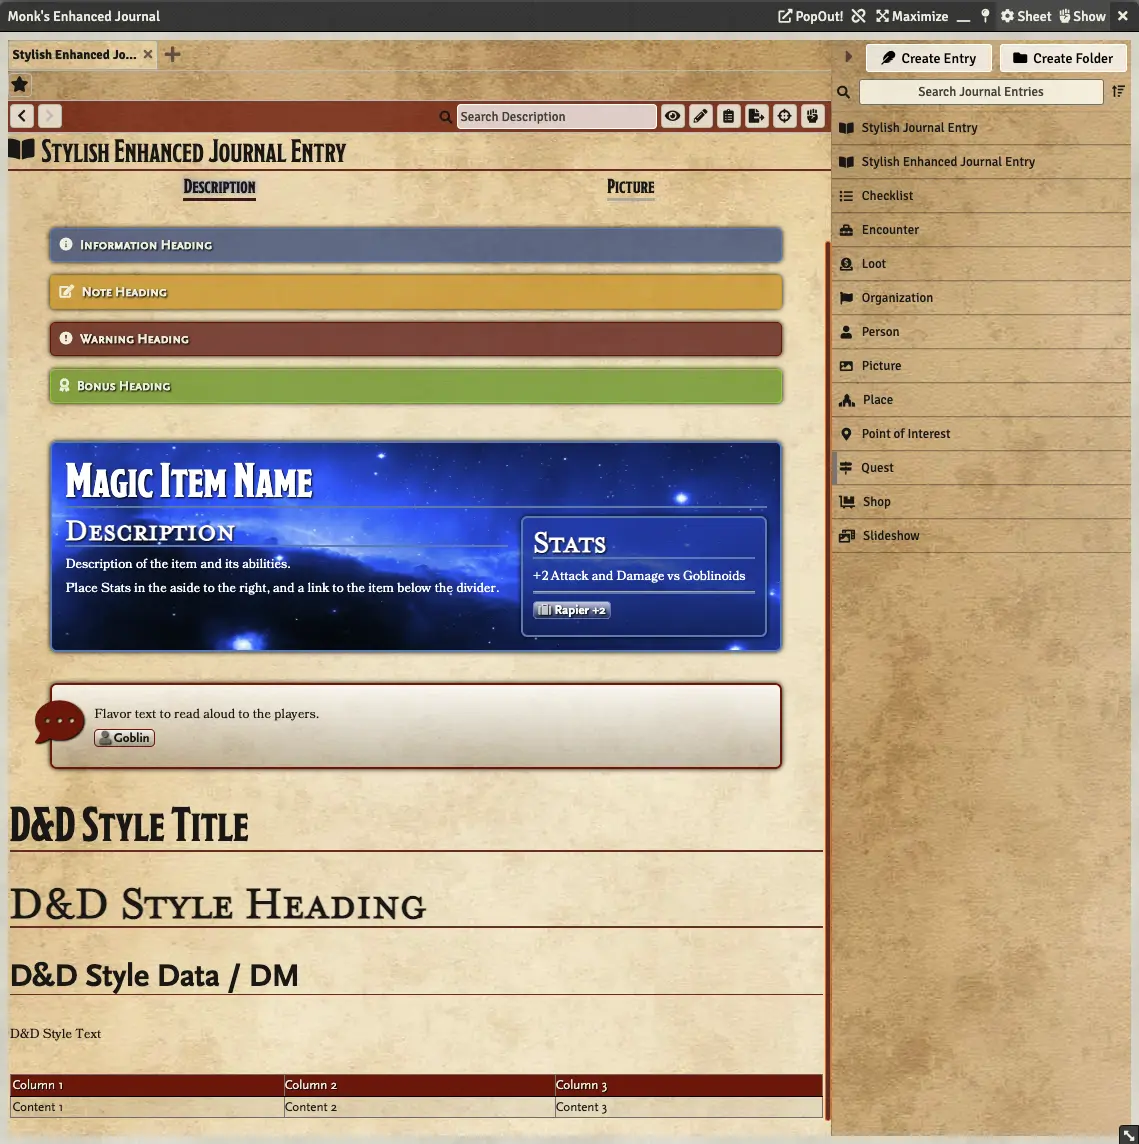
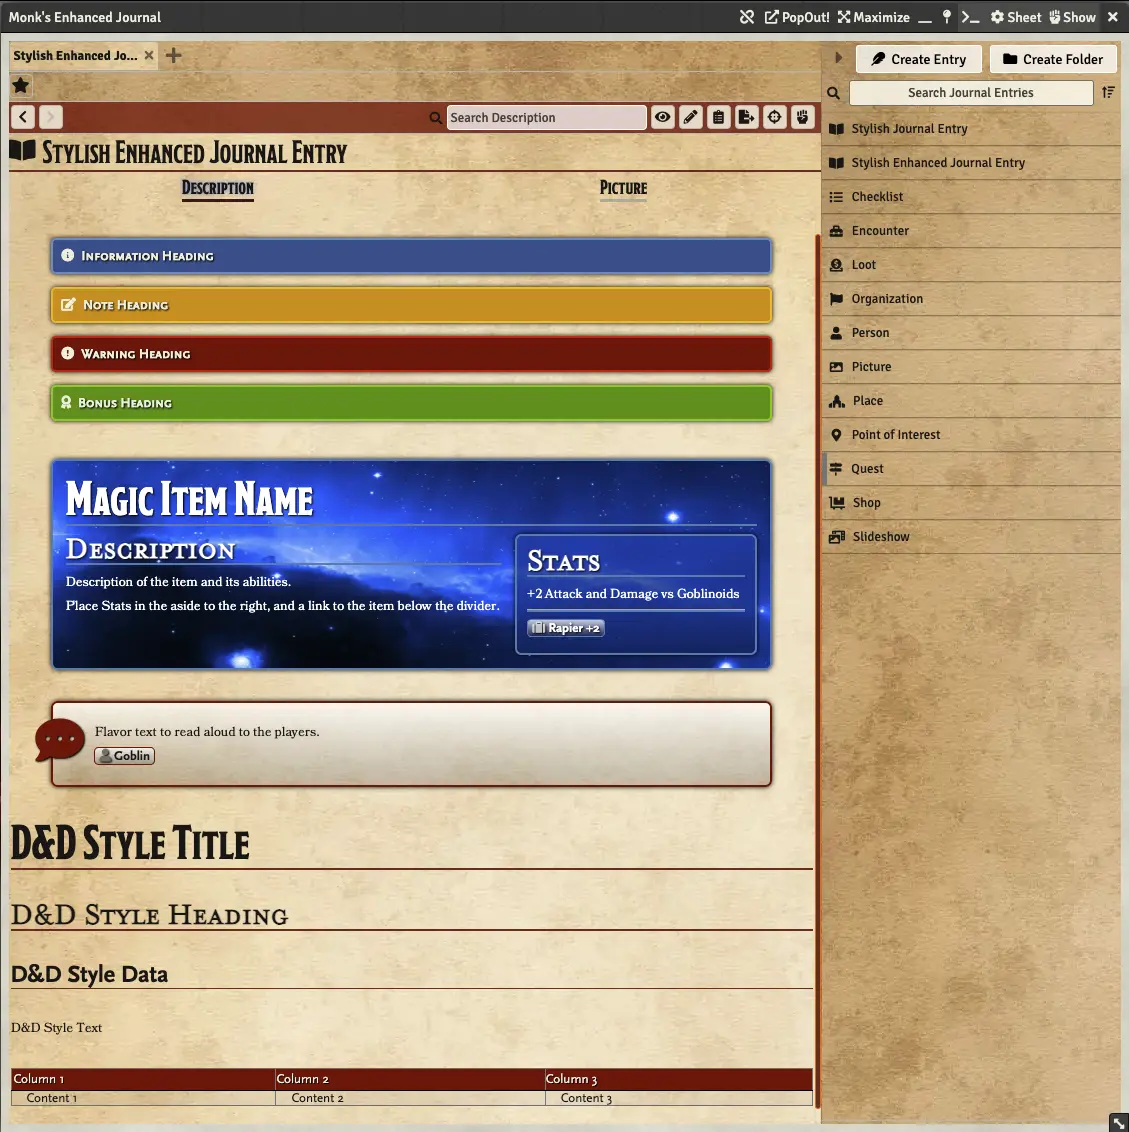
Parchment setting, vibrant panels,localization start, stylish text renames, remove sizes from headings, minro bug fixes

diff --git a/styles/apsj4mej.css b/styles/apsj4mej.css
@@ -1,7 +1,7 @@
 :root {
     --color-apsj-base-border: rgba(128, 0, 0, 1);
     --color-apsj-base-background: rgba(128, 0, 0, 0.75);
-    --color-apsj-magic-border: rgba(92, 135, 185, 1);
+    --color-apsj-magic-border: rgb(92, 135, 185);
     --color-apsj-light-background: rgba(255, 255, 255, 0.75);
     --color-apsj-dark-background: rgba(64, 64, 64, 0.25);
 }
@@ -13,28 +13,28 @@
 
 @font-face {
     font-family: 'BookInsanity';
-    src: url('../fonts/Bookinsanity/BookInsanity.otf') format('opentype');
+    src: url('../fonts/BookInsanity/BookInsanity.otf') format('opentype');
     font-weight: 400;
     font-style: normal;
 }
 
 @font-face {
     font-family: 'BookInsanity';
-    src: url('../fonts/Bookinsanity/BookInsanityBold.otf') format('opentype');
+    src: url('../fonts/BookInsanity/BookInsanityBold.otf') format('opentype');
     font-weight: 700;
     font-style: normal;
 }
 
 @font-face {
     font-family: 'BookInsanity';
-    src: url('../fonts/Bookinsanity/BookInsanityItalic.otf') format('opentype');
+    src: url('../fonts/BookInsanity/BookInsanityItalic.otf') format('opentype');
     font-weight: 400;
     font-style: italic;
 }
 
 @font-face {
     font-family: 'BookInsanity';
-    src: url('../fonts/Bookinsanity/BookInsanityBoldItalic.otf')
+    src: url('../fonts/BookInsanity/BookInsanityBoldItalic.otf')
         format('opentype');
     font-weight: 700;
     font-style: italic;
@@ -112,28 +112,25 @@
     background-image: url(../assets/parchment-medium.webp) !important;
 } */
 
-.editor-content h1 {
-    font-size: xxx-large;
+.editor-content table tbody tr td {
+    padding: 0 15px;
 }
 
-.editor-content h2 {
-    font-size: xx-large;
+.editor-content table tbody tr td:first-child {
+    white-space: nowrap;
 }
 
-.editor-content h3 {
-    font-size: x-large;
+.editor-content blockquote {
+    margin-bottom: 1.5em;
 }
 
-.editor-content h4 {
-    font-size: large;
+.editor-content {
+    padding-right: 5px;
+    overflow-x: hidden;
 }
 
-.editor-content h5 {
-    font-size: medium;
-}
-
-.editor-content h6 {
-    font-size: small;
+li > .entity-link {
+    line-height: 1.75em;
 }
 
 table thead {
@@ -169,33 +166,6 @@ a.inline-roll i {
 /*
  Monk's Enhanced Journal Style Overrides
 */
-
-.monks-enhanced-journal .mainbar {
-    background-image: url(../assets/parchment-medium.webp);
-}
-
-.monks-enhanced-journal .directory-sidebar {
-    background-image: url(../assets/parchment-medium.webp) !important;
-}
-
-.monks-enhanced-journal .tab-bar .journal-tab.active {
-    background-image: url(../assets/parchment.webp);
-}
-
-.monks-journal-sheet .encounter-body {
-    background-image: url(../assets/parchment-bloody.webp);
-}
-
-.monks-journal-sheet,
-.monks-journal-sheet.sheet .person-container,
-.monks-journal-sheet.sheet .place-container,
-.monks-journal-sheet.sheet .quest-container,
-.monks-journal-sheet.sheet .organization-container,
-.monks-journal-sheet.sheet .shop-container,
-.monks-journal-sheet.sheet .loot-container,
-.monks-journal-sheet.sheet .poi-container {
-    background-image: url(../assets/parchment.webp);
-}
 
 .monks-journal-sheet .header-name {
     font-family: 'Modesto Condensed';
@@ -298,8 +268,8 @@ a.inline-roll i {
 }
 
 .panel.info {
-    background: rgba(47, 80, 132, 0.75);
-    border: 1px solid var(--color-apsj-magic-border);
+    background: rgb(57, 90, 150);
+    border: 2px solid rgb(110, 150, 200);
 }
 
 .panel.info::before {
@@ -307,8 +277,8 @@ a.inline-roll i {
 }
 
 .panel.note {
-    background: rgba(214, 150, 0, 0.75);
-    border: 1px solid #d69e07;
+    background: rgb(214, 150, 0);
+    border: 2px solid #f6be07;
 }
 
 .panel.note::before {
@@ -316,8 +286,8 @@ a.inline-roll i {
 }
 
 .panel.warning {
-    background: rgba(105, 0, 8, 0.75);
-    border: 1px solid #750003;
+    background: rgb(128, 0, 0);
+    border: 2px solid #d00000;
 }
 
 .panel.warning::before {
@@ -325,8 +295,8 @@ a.inline-roll i {
 }
 
 .panel.bonus {
-    background: rgba(101, 155, 0, 0.75);
-    border: 1px solid #8ad304;
+    background: rgb(101, 155, 0);
+    border: 2px solid #8ad304;
 }
 
 .panel.bonus::before {
@@ -376,7 +346,7 @@ a.inline-roll i {
 }
 
 .block p {
-    font-family: 'Bookinsanity';
+    font-family: 'BookInsanity';
     font-weight: 400;
 }
 

diff --git a/scripts/apsj4mej.js b/scripts/apsj4mej.js
@@ -1,4 +1,30 @@
 Hooks.on('init', () => {
+    game.settings.register('apsj4mej', 'apsj4mejEnableParchment', {
+        name: game.i18n.format('APSJ4MEJ.menuEnableParchmentName'),
+        hint: game.i18n.format('APSJ4MEJ.menuEnableParchmentHint'),
+        scope: 'client',
+        config: true,
+        default: true,
+        type: Boolean,
+        onChange: () => window.location.reload(),
+    });
+
+    // game.settings.register('apsj4mej', 'apsj4mejTitleSize', {
+    //     name: game.i18n.format('APSJ4MEJ.menuTitleSizeName'),
+    //     scope: 'world',
+    //     config: true,
+    //     type: Number,
+    //     default: '48',
+    // });
+
+    // game.settings.register('apsj4mej', 'apsj4mejHeadingSize', {
+    //     name: game.i18n.format('APSJ4mEJ.menuHeadingSizeName'),
+    //     scope: 'world',
+    //     config: true,
+    //     type: Number,
+    //     default: '36',
+    // });
+
     CONFIG.TinyMCE.plugins =
         ' advlist lists searchreplace textpattern template image table hr code save link';
 
@@ -9,31 +35,64 @@ Hooks.on('init', () => {
 });
 
 Hooks.on('ready', () => {
+    if (game.settings.get('apsj4mej', 'apsj4mejEnableParchment')) {
+        let innerHTML = '';
+        let style = document.createElement('style');
+        style.id = 'apsj4mej-changes';
+        innerHTML += `
+.monks-enhanced-journal .mainbar {
+	background-image: url(modules/apsj4mej/assets/parchment-medium.webp);
+}
+
+.monks-enhanced-journal .directory-sidebar {
+	background-image: url(modules/apsj4mej/assets/parchment-medium.webp) !important;
+}
+
+.monks-enhanced-journal .tab-bar .journal-tab.active {
+	background-image: url(modules/apsj4mej/assets/parchment.webp);
+}
+
+.monks-journal-sheet .encounter-body {
+	background-image: url(modules/apsj4mej/assets/parchment-bloody.webp);
+}
+
+.monks-journal-sheet,
+.monks-journal-sheet.sheet .person-container,
+.monks-journal-sheet.sheet .place-container,
+.monks-journal-sheet.sheet .quest-container,
+.monks-journal-sheet.sheet .organization-container,
+.monks-journal-sheet.sheet .shop-container,
+.monks-journal-sheet.sheet .loot-container,
+.monks-journal-sheet.sheet .poi-container {
+	background-image: url(modules/apsj4mej/assets/parchment.webp);
+}
+`;
+        style.innerHTML = innerHTML;
+        if (innerHTML != '') {
+            document.querySelector('head').appendChild(style);
+        }
+    }
+
     CONFIG.TinyMCE.style_formats.push({
         title: 'Stylish Text',
         items: [
             {
-                title: 'D&D Title',
+                title: 'Stylish Heading (Title)',
                 selector: 'h1,h2,h3,h4,h5,h6,th',
                 classes: 'dnd-title',
             },
             {
-                title: 'Adventure Title',
-                selector: 'h1,h2,h3,h4,h5,h6,th',
-                classes: 'adv-title',
-            },
-            {
-                title: 'D&D Heading',
+                title: 'Stylish Heading',
                 selector: 'h1,h2,h3,h4,h5,h6,th',
                 classes: 'dnd-heading',
             },
             {
-                title: 'D&D Data / DM',
-                selector: 'h1,h2,h3,h4,h5,h6,th,p,td',
+                title: 'Stylish Data',
+                selector: 'h1,h2,h3,h4,h5,h6,th',
                 classes: 'dnd-data',
             },
             {
-                title: 'D&D Text',
+                title: 'Stylish Paragraph',
                 selector: 'p,td',
                 classes: 'dnd-text',
             },

diff --git a/README.md b/README.md
@@ -1,6 +1,6 @@
 # Arius Planeswalker's Stylish Journal for Monk's Enhanced Journal
 
-![Version](https://img.shields.io/github/v/tag/AmazingVanish/apsj4mej?label=Version&style=flat-square&color=2577a1) ![Latest Release Download Count](https://img.shields.io/github/downloads/AmazingVanish/apsj4mej/latest/module.zip?label=Downloads&style=flat-square&color=9b43a8) ![Supported Foundry Versions](https://img.shields.io/endpoint?url=https://foundryshields.com/version?url=https://raw.githubusercontent.com/AmazingVanish/apsj4mej/master/module.json&style=flat-square&color=ff6400) [![Discord Server](https://img.shields.io/badge/-Discord-%232c2f33?style=flat-square&logo=discord)](https://discord.gg/ge9GJXDsM2)
+![All Releases Downloads](https://img.shields.io/github/downloads/AmazingVanish/apsj4mej/total?logo=GitHub) ![Latest Release Downloads](https://img.shields.io/github/downloads/AmazingVanish/apsj4mej/latest/total) ![GitHub Release (latest by date)](https://img.shields.io/github/v/release/AmazingVanish/apsj4mej) ![Supported Foundry Versions](https://img.shields.io/endpoint?url=https://foundryshields.com/version?url=https://raw.githubusercontent.com/AmazingVanish/apsj4mej/master/module.json&style=flat-square&color=ff6400) [![Discord Server](https://img.shields.io/badge/-Discord-%232c2f33?style=flat-square&logo=discord)](https://discord.gg/ge9GJXDsM2)
 
 ## Arius Planeswalker Presents Stylish Journal for Monk's Enhanced Journal
 
@@ -39,6 +39,10 @@ _Screenshot of an Encounter Entry_
 
 ![loot](https://raw.github.com/AmazingVanish/apsj4mej/master/media/apsj4mej-loot.webp)
 _Screenshot of a Loot Entry_
+
+## Known Issues
+
+-   Font Awesome icons do not display in Edit Mode
 
 ## License
 

diff --git a/CHANGELOG.md b/CHANGELOG.md
@@ -1,13 +1,23 @@
 # RELEASE NOTES
 
+## Version 1.2.0 - Parchment Setting
+
+-   Added a setting to enable/disable the parchment background (Thanks KSMI for the request)
+-   Made the panels more vibrant so they stand out more
+-   Removed a leftover from another project. Whooops! (Thanks SecretSquirrel77 for pointing it out)
+-   Fixed more font naming (Thanks SecretSquirrel77 for pointing it out)
+-   Added localization for the settings panel
+-   Modified the names of the Stylish Text to be more in line with standard naming conventions (Thanks weepingminotaur for the idea)
+-   Removed size settings for the Stylish Text to prepare for future changes and consistency
+
 ## Version 1.1.0 - More Stylings
 
-- Use CSS Variables throughout
-- Styled Entity Links
-- Styled Encouter inputs
-- Styled item bars
-- Tweak box shadows
-- Stlyed background of Enhanced entry icons boxes
+-   Use CSS Variables throughout
+-   Styled Entity Links
+-   Styled Encouter inputs
+-   Styled item bars
+-   Tweak box shadows
+-   Stlyed background of Enhanced entry icons boxes
 
 ## Version 1.0.0 - Initial Public Release
 
